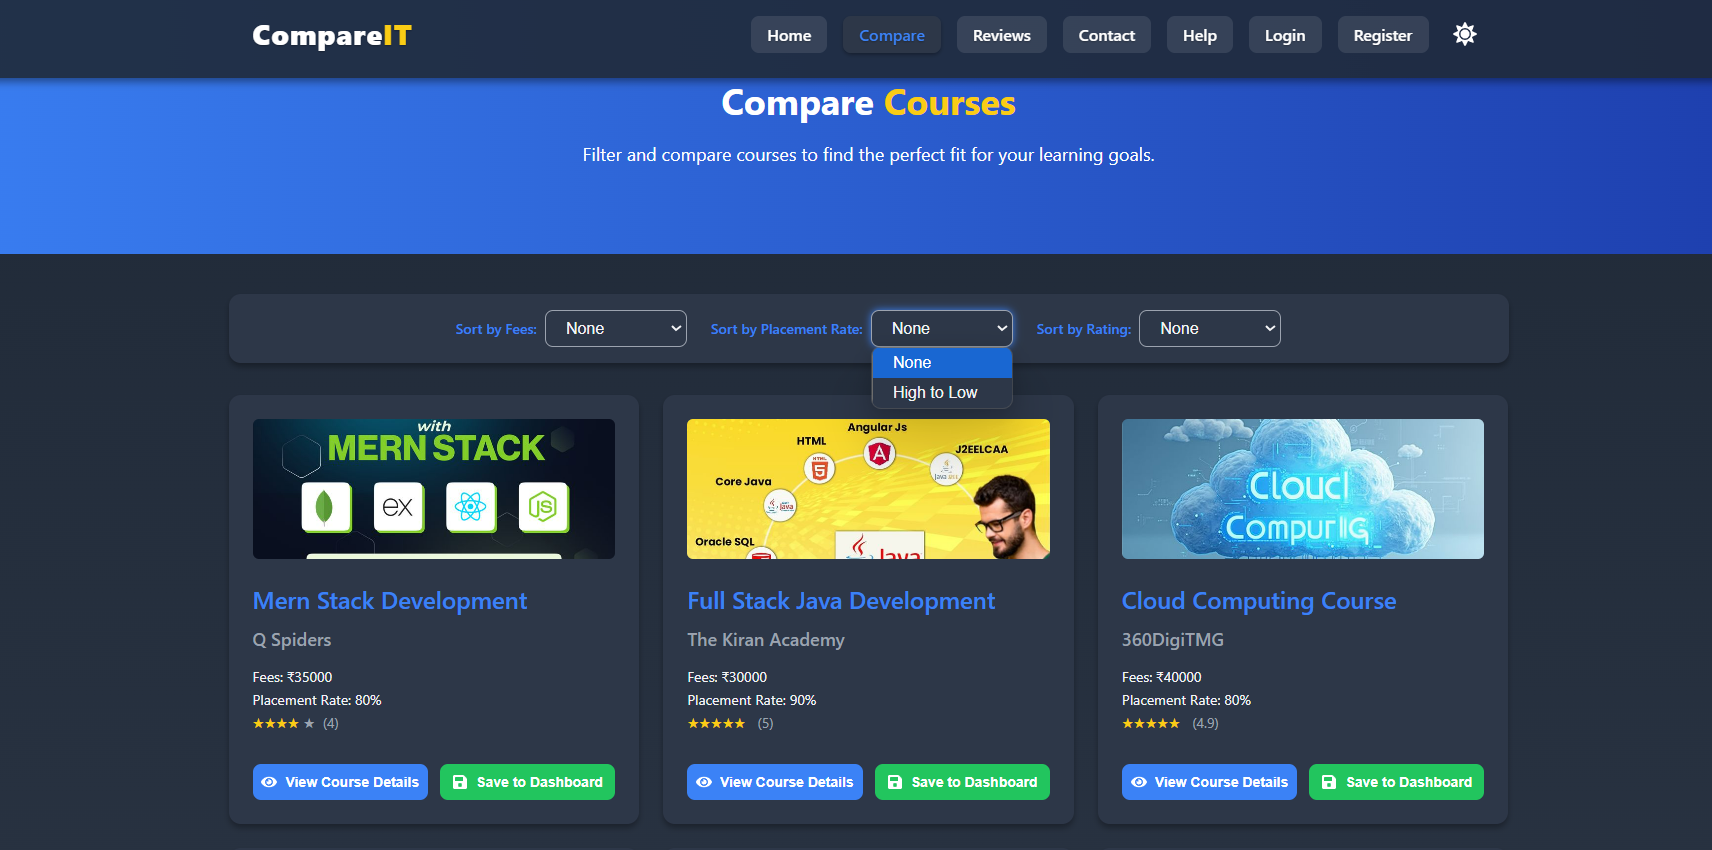
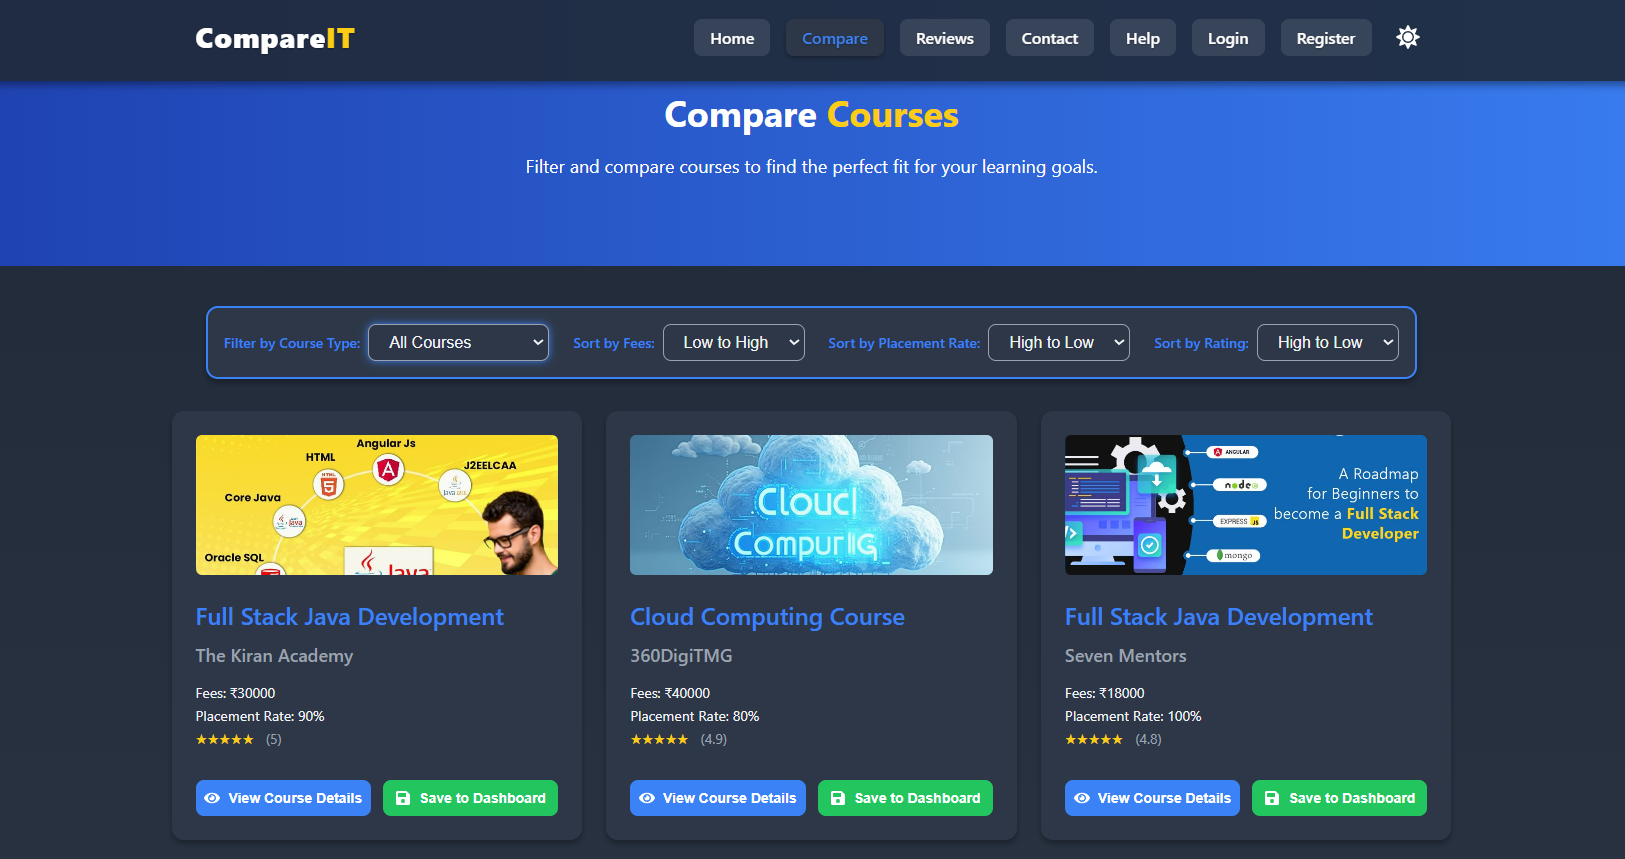
Change Screenshot

diff --git a/frontend/src/components/CompareCourses.jsx b/frontend/src/components/CompareCourses.jsx
@@ -1,25 +1,26 @@
-// src/components/CompareCourses.jsx
 import React, { useState, useEffect, useContext } from 'react';
 import axios from 'axios';
 import { motion, AnimatePresence } from 'framer-motion';
 import { FaEye, FaSave } from 'react-icons/fa';
 import { AuthContext } from '../context/AuthContext';
-import { ThemeContext } from '../context/ThemeContext'; // Import ThemeContext
+import { ThemeContext } from '../context/ThemeContext';
 import { useNavigate } from 'react-router-dom';
 
 const CompareCourses = () => {
   const { isAuthenticated } = useContext(AuthContext);
-  const { theme } = useContext(ThemeContext); // Use ThemeContext
+  const { theme } = useContext(ThemeContext);
   const navigate = useNavigate();
   const [courses, setCourses] = useState([]);
   const [filteredCourses, setFilteredCourses] = useState([]);
   const [savedCourseIds, setSavedCourseIds] = useState([]);
+  const [courseTypes, setCourseTypes] = useState([]); // New state for dynamic course types
   const [loading, setLoading] = useState(true);
   const [error, setError] = useState(null);
   const [filter, setFilter] = useState({
     fees: 'none',
     placement: 'none',
     rating: 'none',
+    courseType: 'none',
   });
 
   useEffect(() => {
@@ -29,6 +30,20 @@ const CompareCourses = () => {
         console.log('Courses API Response:', coursesResponse.data);
         setCourses(coursesResponse.data);
         setFilteredCourses(coursesResponse.data);
+
+        // Extract unique course types from course names
+        const extractedTypes = coursesResponse.data.map(course => {
+          const name = course.Name.toLowerCase();
+          if (name.includes('mern') || name.includes('full stack')) return 'Full Stack';
+          if (name.includes('java')) return 'Java';
+          if (name.includes('python')) return 'Python';
+          if (name.includes('data science')) return 'Data Science';
+          if (name.includes('cloud computing')) return 'Cloud Computing';
+          return null;
+        }).filter(type => type !== null);
+
+        // Set unique course types
+        setCourseTypes([...new Set(extractedTypes)].sort());
 
         if (isAuthenticated) {
           const savedResponse = await axios.get('http://localhost:8000/api/saved-courses/', {
@@ -51,6 +66,22 @@ const CompareCourses = () => {
   useEffect(() => {
     let updatedCourses = [...courses];
 
+    // Apply course type filter
+    if (filter.courseType !== 'none') {
+      updatedCourses = updatedCourses.filter(course => {
+        const name = course.Name.toLowerCase();
+        const type = filter.courseType.toLowerCase();
+        return (
+          (type === 'full stack' && (name.includes('mern') || name.includes('full stack'))) ||
+          (type === 'java' && name.includes('java')) ||
+          (type === 'python' && name.includes('python')) ||
+          (type === 'data science' && name.includes('data science')) ||
+          (type === 'cloud computing' && name.includes('cloud computing'))
+        );
+      });
+    }
+
+    // Apply existing sort filters
     if (filter.fees === 'lowToHigh') {
       updatedCourses.sort((a, b) => a.Fees - b.Fees);
     }
@@ -186,12 +217,19 @@ const CompareCourses = () => {
         }
         .action-button:hover {
           transform: scale(1.05);
-        Ga
+        }
         .view-button:hover {
           background-color: var(--accent-hover);
         }
         .save-button:hover {
           background-color: #16a34a;
+        }
+        .filter-box {
+          border: 2px solid var(--accent);
+          borderRadius: 12px;
+          padding: 16px;
+          background: var(--card-background);
+          boxShadow: 0 4px 6px var(--shadow);
         }
       `}</style>
 
@@ -223,44 +261,61 @@ const CompareCourses = () => {
             animate={{ opacity: 1 }}
             transition={{ duration: 0.5 }}
           >
-            <div style={styles.filterGroup}>
-              <label style={styles.filterLabel}>Sort by Fees:</label>
-              <select
-                name="fees"
-                value={filter.fees}
-                onChange={handleFilterChange}
-                style={styles.filterSelect}
-                className="filter-select"
-              >
-                <option value="none">None</option>
-                <option value="lowToHigh">Low to High</option>
-              </select>
-            </div>
-            <div style={styles.filterGroup}>
-              <label style={styles.filterLabel}>Sort by Placement Rate:</label>
-              <select
-                name="placement"
-                value={filter.placement}
-                onChange={handleFilterChange}
-                style={styles.filterSelect}
-                className="filter-select"
-              >
-                <option value="none">None</option>
-                <option value="highToLow">High to Low</option>
-              </select>
-            </div>
-            <div style={styles.filterGroup}>
-              <label style={styles.filterLabel}>Sort by Rating:</label>
-              <select
-                name="rating"
-                value={filter.rating}
-                onChange={handleFilterChange}
-                style={styles.filterSelect}
-                className="filter-select"
-              >
-                <option value="none">None</option>
-                <option value="highToLow">High to Low</option>
-              </select>
+            <div style={styles.filterBox} className="filter-box">
+              <div style={styles.filterGroup}>
+                <label style={styles.filterLabel}>Filter by Course Type:</label>
+                <select
+                  name="courseType"
+                  value={filter.courseType}
+                  onChange={handleFilterChange}
+                  style={styles.filterSelect}
+                  className="filter-select"
+                >
+                  <option value="none">All Courses</option>
+                  {courseTypes.map(type => (
+                    <option key={type} value={type}>{type}</option>
+                  ))}
+                </select>
+              </div>
+              <div style={styles.filterGroup}>
+                <label style={styles.filterLabel}>Sort by Fees:</label>
+                <select
+                  name="fees"
+                  value={filter.fees}
+                  onChange={handleFilterChange}
+                  style={styles.filterSelect}
+                  className="filter-select"
+                >
+                  <option value="none">None</option>
+                  <option value="lowToHigh">Low to High</option>
+                </select>
+              </div>
+              <div style={styles.filterGroup}>
+                <label style={styles.filterLabel}>Sort by Placement Rate:</label>
+                <select
+                  name="placement"
+                  value={filter.placement}
+                  onChange={handleFilterChange}
+                  style={styles.filterSelect}
+                  className="filter-select"
+                >
+                  <option value="none">None</option>
+                  <option value="highToLow">High to Low</option>
+                </select>
+              </div>
+              <div style={styles.filterGroup}>
+                <label style={styles.filterLabel}>Sort by Rating:</label>
+                <select
+                  name="rating"
+                  value={filter.rating}
+                  onChange={handleFilterChange}
+                  style={styles.filterSelect}
+                  className="filter-select"
+                >
+                  <option value="none">None</option>
+                  <option value="highToLow">High to Low</option>
+                </select>
+              </div>
             </div>
           </motion.div>
 
@@ -383,7 +438,7 @@ const styles = {
   },
   errorContainer: {
     minHeight: '100vh',
-    background: 'linear-gradient(to bottom, var(--background), var(--background-secondary))',
+    background: 'linear-gradient(to bottom, var(--background), watch, var(--background-secondary))',
     display: 'flex',
     alignItems: 'center',
     justifyContent: 'center',
@@ -437,10 +492,17 @@ const styles = {
     gap: '24px',
     marginBottom: '32px',
     flexWrap: 'wrap',
-    background: 'var(--card-background)',
+  },
+  filterBox: {
+    display: 'flex',
+    justifyContent: 'center',
+    gap: '24px',
+    flexWrap: 'wrap',
+    border: '2px solid var(--accent)',
     borderRadius: '12px',
-    boxShadow: '0 4px 6px var(--shadow)',
     padding: '16px',
+    background: 'var(--card-background)',
+    boxShadow: '0 4px 6px var(--shadow)',
   },
   filterGroup: {
     display: 'flex',
@@ -545,7 +607,7 @@ const styles = {
     background: 'var(--button-bg)',
   },
   saveButton: {
-    background: '#22c55e', // Kept as a fallback for consistency, can be themed if needed
+    background: '#22c55e',
   },
   buttonIcon: {
     width: '16px',
